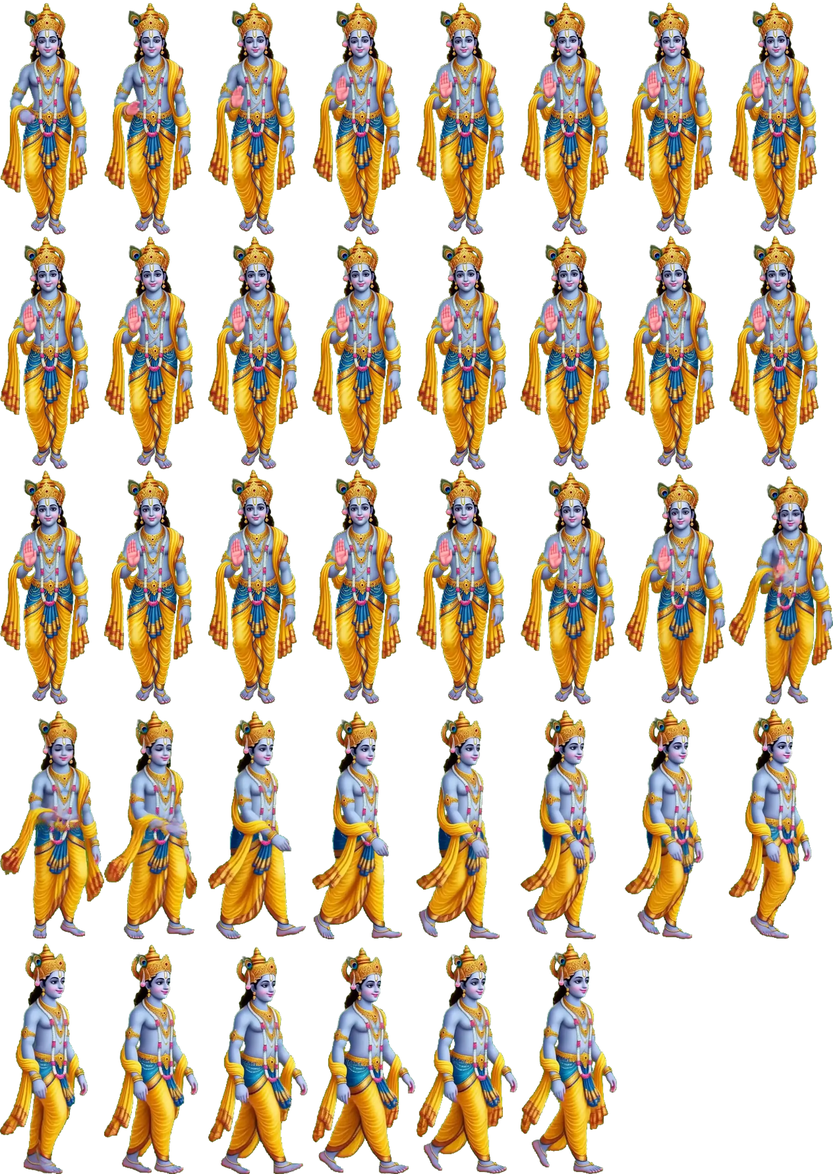
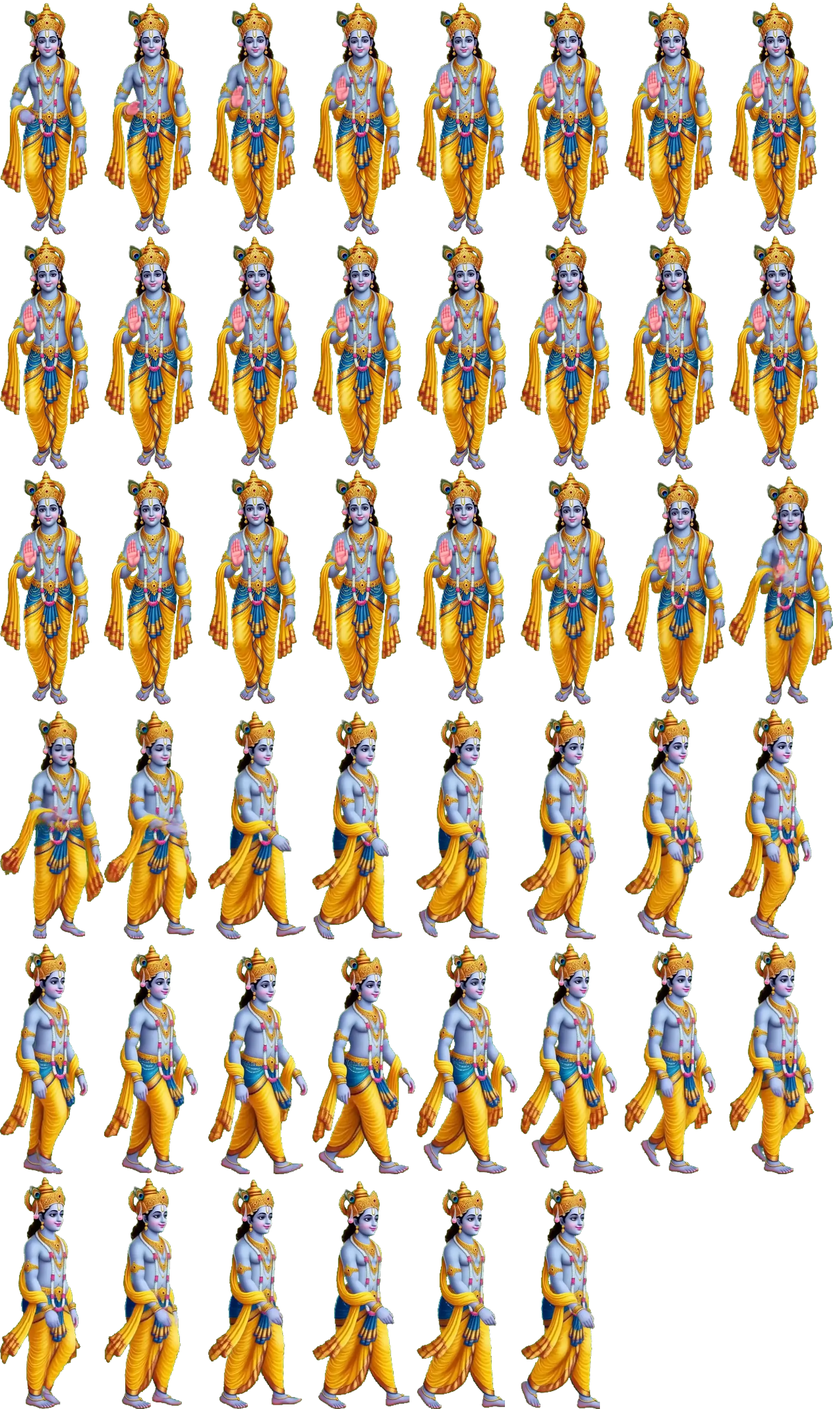
Address the Codex review of the walk animation
- Farewell segment now runs to the clip's end (46 frames, 3833 ms) so
  the figure leaves the canvas fully instead of popping away with part
  of the last frame visible; WITHDRAWAL_MS bound raised to 4000.
- A sheet that never loads or errors gives up after 8 s and ends its
  segment, so no frame loop can run unbounded.
- The backing store is only resized from a laid-out canvas; a hidden
  canvas keeps its store instead of compounding the pixel ratio.
- Drawing uses independent x and y backing scales for fractional
  pixel ratios.
- The halo and caption fade in over the walk-in and out over the
  farewell instead of sitting at rest before he enters.
- New test/renderer-sprite.test.js drives the shipped renderer with
  the real manifest and a recording player through every phase:
  walk in, reveal, gesture on expand, farewell, absent; continuing
  verse; reduced motion; hidden window during withdrawal.
- Docs: bounds and segment lengths stated where each lives; UI1/UI5
  rows name the behavioural test; the preview GIF is no longer
  committed (3 MB of history), the PNG evidence stays.

Claude-Session: https://claude.ai/code/session_01CC1aA9unkPT1AyCNRU7Naq

diff --git a/assets/anim/manifest.js b/assets/anim/manifest.js
@@ -1,2 +1,2 @@
 // Generated by build-sheets.py from the darshan clip; do not edit by hand.
-window.KRISHNA_ANIM = {"sourceFps":24,"sourceWidth":1344,"sourceHeight":768,"scale":0.8,"segments":{"walkin":{"file":"walkin.webp","fps":12,"loop":false,"cell":[232,542],"frames":[{"sx":0,"sy":11,"w":176,"h":531,"ox":816,"oy":34},{"sx":232,"sy":10,"w":184,"h":532,"ox":792,"oy":32},{"sx":464,"sy":11,"w":195,"h":531,"ox":763,"oy":34},{"sx":696,"sy":11,"w":203,"h":531,"ox":739,"oy":35},{"sx":928,"sy":14,"w":211,"h":528,"ox":715,"oy":37},{"sx":1160,"sy":16,"w":220,"h":526,"ox":690,"oy":40},{"sx":1392,"sy":16,"w":225,"h":526,"ox":674,"oy":43},{"sx":1624,"sy":11,"w":222,"h":531,"ox":662,"oy":42},{"sx":0,"sy":548,"w":217,"h":536,"ox":656,"oy":38},{"sx":232,"sy":547,"w":206,"h":537,"ox":650,"oy":37},{"sx":464,"sy":547,"w":195,"h":537,"ox":643,"oy":37},{"sx":696,"sy":544,"w":187,"h":540,"ox":630,"oy":35},{"sx":928,"sy":545,"w":176,"h":539,"ox":614,"oy":37},{"sx":1160,"sy":548,"w":208,"h":536,"ox":568,"oy":40},{"sx":1392,"sy":550,"w":232,"h":534,"ox":531,"oy":42},{"sx":1624,"sy":555,"w":228,"h":529,"ox":522,"oy":45},{"sx":0,"sy":1094,"w":219,"h":532,"ox":520,"oy":42},{"sx":232,"sy":1093,"w":196,"h":533,"ox":520,"oy":39},{"sx":464,"sy":1090,"w":184,"h":536,"ox":520,"oy":38},{"sx":696,"sy":1090,"w":176,"h":536,"ox":518,"oy":38},{"sx":928,"sy":1090,"w":179,"h":536,"ox":504,"oy":38},{"sx":1160,"sy":1092,"w":177,"h":534,"ox":491,"oy":40},{"sx":1392,"sy":1089,"w":185,"h":537,"ox":480,"oy":40},{"sx":1624,"sy":1085,"w":193,"h":541,"ox":475,"oy":42},{"sx":0,"sy":1626,"w":201,"h":542,"ox":474,"oy":43}],"source":[1.2,3.35]},"idle":{"file":"idle.webp","fps":8,"loop":true,"cell":[220,550],"frames":[{"sx":0,"sy":8,"w":209,"h":542,"ox":475,"oy":45},{"sx":220,"sy":8,"w":220,"h":542,"ox":467,"oy":45},{"sx":440,"sy":6,"w":217,"h":544,"ox":466,"oy":43},{"sx":660,"sy":6,"w":206,"h":544,"ox":469,"oy":43},{"sx":880,"sy":6,"w":196,"h":544,"ox":474,"oy":43},{"sx":1100,"sy":6,"w":192,"h":544,"ox":477,"oy":43},{"sx":1320,"sy":6,"w":192,"h":544,"ox":477,"oy":43},{"sx":1540,"sy":6,"w":195,"h":544,"ox":475,"oy":43},{"sx":0,"sy":556,"w":195,"h":544,"ox":475,"oy":43},{"sx":220,"sy":556,"w":195,"h":544,"ox":475,"oy":43},{"sx":440,"sy":554,"w":195,"h":546,"ox":475,"oy":42},{"sx":660,"sy":553,"w":195,"h":547,"ox":475,"oy":42},{"sx":880,"sy":553,"w":195,"h":547,"ox":475,"oy":42},{"sx":1100,"sy":553,"w":195,"h":547,"ox":475,"oy":42},{"sx":1320,"sy":553,"w":195,"h":547,"ox":475,"oy":42},{"sx":1540,"sy":553,"w":195,"h":547,"ox":475,"oy":42},{"sx":0,"sy":1103,"w":195,"h":547,"ox":475,"oy":42},{"sx":220,"sy":1103,"w":195,"h":547,"ox":475,"oy":42},{"sx":440,"sy":1103,"w":195,"h":547,"ox":475,"oy":42},{"sx":660,"sy":1102,"w":195,"h":548,"ox":475,"oy":42},{"sx":880,"sy":1102,"w":195,"h":548,"ox":475,"oy":42},{"sx":1100,"sy":1100,"w":195,"h":550,"ox":475,"oy":40}],"source":[3.35,6.2],"pingpong":true},"teach":{"file":"teach.webp","fps":10,"loop":false,"cell":[217,560],"frames":[{"sx":0,"sy":10,"w":195,"h":550,"ox":475,"oy":40},{"sx":217,"sy":10,"w":195,"h":550,"ox":475,"oy":40},{"sx":434,"sy":8,"w":200,"h":552,"ox":470,"oy":40},{"sx":651,"sy":8,"w":204,"h":552,"ox":466,"oy":40},{"sx":868,"sy":8,"w":208,"h":552,"ox":462,"oy":40},{"sx":1085,"sy":8,"w":209,"h":552,"ox":462,"oy":40},{"sx":1302,"sy":8,"w":211,"h":552,"ox":461,"oy":40},{"sx":1519,"sy":8,"w":209,"h":552,"ox":462,"oy":40},{"sx":0,"sy":568,"w":211,"h":552,"ox":461,"oy":40},{"sx":217,"sy":568,"w":211,"h":552,"ox":461,"oy":40},{"sx":434,"sy":568,"w":212,"h":552,"ox":459,"oy":40},{"sx":651,"sy":568,"w":212,"h":552,"ox":459,"oy":40},{"sx":868,"sy":568,"w":214,"h":552,"ox":458,"oy":40},{"sx":1085,"sy":567,"w":216,"h":553,"ox":456,"oy":38},{"sx":1302,"sy":565,"w":216,"h":555,"ox":456,"oy":38},{"sx":1519,"sy":565,"w":216,"h":555,"ox":456,"oy":38},{"sx":0,"sy":1125,"w":216,"h":555,"ox":456,"oy":38},{"sx":217,"sy":1125,"w":214,"h":555,"ox":458,"oy":38},{"sx":434,"sy":1125,"w":214,"h":555,"ox":458,"oy":38},{"sx":651,"sy":1125,"w":214,"h":555,"ox":458,"oy":38},{"sx":868,"sy":1125,"w":212,"h":555,"ox":459,"oy":38},{"sx":1085,"sy":1125,"w":212,"h":555,"ox":459,"oy":38},{"sx":1302,"sy":1125,"w":212,"h":555,"ox":459,"oy":38},{"sx":1519,"sy":1125,"w":212,"h":555,"ox":459,"oy":38},{"sx":0,"sy":1685,"w":214,"h":555,"ox":458,"oy":38},{"sx":217,"sy":1684,"w":214,"h":556,"ox":458,"oy":38},{"sx":434,"sy":1684,"w":216,"h":556,"ox":456,"oy":38},{"sx":651,"sy":1684,"w":216,"h":556,"ox":456,"oy":38},{"sx":868,"sy":1684,"w":216,"h":556,"ox":456,"oy":38},{"sx":1085,"sy":1684,"w":217,"h":556,"ox":456,"oy":38},{"sx":1302,"sy":1684,"w":217,"h":556,"ox":456,"oy":38},{"sx":1519,"sy":1684,"w":217,"h":556,"ox":456,"oy":38},{"sx":0,"sy":2242,"w":216,"h":558,"ox":458,"oy":37},{"sx":217,"sy":2242,"w":214,"h":558,"ox":459,"oy":37},{"sx":434,"sy":2242,"w":216,"h":558,"ox":458,"oy":37},{"sx":651,"sy":2240,"w":217,"h":560,"ox":456,"oy":37},{"sx":868,"sy":2240,"w":217,"h":560,"ox":454,"oy":37}],"source":[6.2,9.9]},"farewell":{"file":"farewell.webp","fps":12,"loop":false,"cell":[252,568],"frames":[{"sx":0,"sy":7,"w":211,"h":561,"ox":462,"oy":37},{"sx":252,"sy":7,"w":211,"h":561,"ox":462,"oy":37},{"sx":504,"sy":5,"w":212,"h":563,"ox":462,"oy":35},{"sx":756,"sy":5,"w":214,"h":563,"ox":461,"oy":35},{"sx":1008,"sy":5,"w":214,"h":563,"ox":461,"oy":35},{"sx":1260,"sy":5,"w":214,"h":563,"ox":461,"oy":35},{"sx":1512,"sy":5,"w":214,"h":563,"ox":461,"oy":35},{"sx":1764,"sy":5,"w":214,"h":563,"ox":461,"oy":35},{"sx":0,"sy":572,"w":216,"h":564,"ox":459,"oy":35},{"sx":252,"sy":572,"w":217,"h":564,"ox":458,"oy":35},{"sx":504,"sy":572,"w":217,"h":564,"ox":458,"oy":35},{"sx":756,"sy":572,"w":217,"h":564,"ox":458,"oy":35},{"sx":1008,"sy":570,"w":219,"h":566,"ox":456,"oy":34},{"sx":1260,"sy":570,"w":217,"h":566,"ox":458,"oy":34},{"sx":1512,"sy":570,"w":217,"h":566,"ox":458,"oy":34},{"sx":1764,"sy":570,"w":217,"h":566,"ox":458,"oy":34},{"sx":0,"sy":1138,"w":216,"h":566,"ox":459,"oy":34},{"sx":252,"sy":1138,"w":214,"h":566,"ox":461,"oy":34},{"sx":504,"sy":1136,"w":214,"h":568,"ox":461,"oy":34},{"sx":756,"sy":1136,"w":214,"h":568,"ox":461,"oy":34},{"sx":1008,"sy":1136,"w":214,"h":568,"ox":461,"oy":34},{"sx":1260,"sy":1141,"w":228,"h":563,"ox":453,"oy":35},{"sx":1512,"sy":1146,"w":244,"h":558,"ox":446,"oy":37},{"sx":1764,"sy":1151,"w":252,"h":553,"ox":448,"oy":40},{"sx":0,"sy":1720,"w":252,"h":552,"ox":464,"oy":45},{"sx":252,"sy":1719,"w":225,"h":553,"ox":494,"oy":43},{"sx":504,"sy":1720,"w":236,"h":552,"ox":522,"oy":42},{"sx":756,"sy":1720,"w":217,"h":552,"ox":544,"oy":40},{"sx":1008,"sy":1719,"w":201,"h":553,"ox":560,"oy":38},{"sx":1260,"sy":1717,"w":182,"h":555,"ox":579,"oy":37},{"sx":1512,"sy":1714,"w":190,"h":558,"ox":598,"oy":34},{"sx":1764,"sy":1714,"w":201,"h":558,"ox":616,"oy":34},{"sx":0,"sy":2282,"w":212,"h":558,"ox":632,"oy":34},{"sx":252,"sy":2285,"w":227,"h":555,"ox":646,"oy":37},{"sx":504,"sy":2290,"w":241,"h":550,"ox":661,"oy":38},{"sx":756,"sy":2291,"w":249,"h":549,"ox":686,"oy":42},{"sx":1008,"sy":2284,"w":244,"h":556,"ox":702,"oy":38},{"sx":1260,"sy":2281,"w":233,"h":559,"ox":722,"oy":36}],"source":[11.2,14.4]}}};
+window.KRISHNA_ANIM = {"sourceFps":24,"sourceWidth":1344,"sourceHeight":768,"scale":0.8,"segments":{"walkin":{"file":"walkin.webp","fps":12,"loop":false,"cell":[232,542],"frames":[{"sx":0,"sy":11,"w":176,"h":531,"ox":816,"oy":34},{"sx":232,"sy":10,"w":184,"h":532,"ox":792,"oy":32},{"sx":464,"sy":11,"w":195,"h":531,"ox":763,"oy":34},{"sx":696,"sy":11,"w":203,"h":531,"ox":739,"oy":35},{"sx":928,"sy":14,"w":211,"h":528,"ox":715,"oy":37},{"sx":1160,"sy":16,"w":220,"h":526,"ox":690,"oy":40},{"sx":1392,"sy":16,"w":225,"h":526,"ox":674,"oy":43},{"sx":1624,"sy":11,"w":222,"h":531,"ox":662,"oy":42},{"sx":0,"sy":548,"w":217,"h":536,"ox":656,"oy":38},{"sx":232,"sy":547,"w":206,"h":537,"ox":650,"oy":37},{"sx":464,"sy":547,"w":195,"h":537,"ox":643,"oy":37},{"sx":696,"sy":544,"w":187,"h":540,"ox":630,"oy":35},{"sx":928,"sy":545,"w":176,"h":539,"ox":614,"oy":37},{"sx":1160,"sy":548,"w":208,"h":536,"ox":568,"oy":40},{"sx":1392,"sy":550,"w":232,"h":534,"ox":531,"oy":42},{"sx":1624,"sy":555,"w":228,"h":529,"ox":522,"oy":45},{"sx":0,"sy":1094,"w":219,"h":532,"ox":520,"oy":42},{"sx":232,"sy":1093,"w":196,"h":533,"ox":520,"oy":39},{"sx":464,"sy":1090,"w":184,"h":536,"ox":520,"oy":38},{"sx":696,"sy":1090,"w":176,"h":536,"ox":518,"oy":38},{"sx":928,"sy":1090,"w":179,"h":536,"ox":504,"oy":38},{"sx":1160,"sy":1092,"w":177,"h":534,"ox":491,"oy":40},{"sx":1392,"sy":1089,"w":185,"h":537,"ox":480,"oy":40},{"sx":1624,"sy":1085,"w":193,"h":541,"ox":475,"oy":42},{"sx":0,"sy":1626,"w":201,"h":542,"ox":474,"oy":43}],"source":[1.2,3.35]},"idle":{"file":"idle.webp","fps":8,"loop":true,"cell":[220,550],"frames":[{"sx":0,"sy":8,"w":209,"h":542,"ox":475,"oy":45},{"sx":220,"sy":8,"w":220,"h":542,"ox":467,"oy":45},{"sx":440,"sy":6,"w":217,"h":544,"ox":466,"oy":43},{"sx":660,"sy":6,"w":206,"h":544,"ox":469,"oy":43},{"sx":880,"sy":6,"w":196,"h":544,"ox":474,"oy":43},{"sx":1100,"sy":6,"w":192,"h":544,"ox":477,"oy":43},{"sx":1320,"sy":6,"w":192,"h":544,"ox":477,"oy":43},{"sx":1540,"sy":6,"w":195,"h":544,"ox":475,"oy":43},{"sx":0,"sy":556,"w":195,"h":544,"ox":475,"oy":43},{"sx":220,"sy":556,"w":195,"h":544,"ox":475,"oy":43},{"sx":440,"sy":554,"w":195,"h":546,"ox":475,"oy":42},{"sx":660,"sy":553,"w":195,"h":547,"ox":475,"oy":42},{"sx":880,"sy":553,"w":195,"h":547,"ox":475,"oy":42},{"sx":1100,"sy":553,"w":195,"h":547,"ox":475,"oy":42},{"sx":1320,"sy":553,"w":195,"h":547,"ox":475,"oy":42},{"sx":1540,"sy":553,"w":195,"h":547,"ox":475,"oy":42},{"sx":0,"sy":1103,"w":195,"h":547,"ox":475,"oy":42},{"sx":220,"sy":1103,"w":195,"h":547,"ox":475,"oy":42},{"sx":440,"sy":1103,"w":195,"h":547,"ox":475,"oy":42},{"sx":660,"sy":1102,"w":195,"h":548,"ox":475,"oy":42},{"sx":880,"sy":1102,"w":195,"h":548,"ox":475,"oy":42},{"sx":1100,"sy":1100,"w":195,"h":550,"ox":475,"oy":40}],"source":[3.35,6.2],"pingpong":true},"teach":{"file":"teach.webp","fps":10,"loop":false,"cell":[217,560],"frames":[{"sx":0,"sy":10,"w":195,"h":550,"ox":475,"oy":40},{"sx":217,"sy":10,"w":195,"h":550,"ox":475,"oy":40},{"sx":434,"sy":8,"w":200,"h":552,"ox":470,"oy":40},{"sx":651,"sy":8,"w":204,"h":552,"ox":466,"oy":40},{"sx":868,"sy":8,"w":208,"h":552,"ox":462,"oy":40},{"sx":1085,"sy":8,"w":209,"h":552,"ox":462,"oy":40},{"sx":1302,"sy":8,"w":211,"h":552,"ox":461,"oy":40},{"sx":1519,"sy":8,"w":209,"h":552,"ox":462,"oy":40},{"sx":0,"sy":568,"w":211,"h":552,"ox":461,"oy":40},{"sx":217,"sy":568,"w":211,"h":552,"ox":461,"oy":40},{"sx":434,"sy":568,"w":212,"h":552,"ox":459,"oy":40},{"sx":651,"sy":568,"w":212,"h":552,"ox":459,"oy":40},{"sx":868,"sy":568,"w":214,"h":552,"ox":458,"oy":40},{"sx":1085,"sy":567,"w":216,"h":553,"ox":456,"oy":38},{"sx":1302,"sy":565,"w":216,"h":555,"ox":456,"oy":38},{"sx":1519,"sy":565,"w":216,"h":555,"ox":456,"oy":38},{"sx":0,"sy":1125,"w":216,"h":555,"ox":456,"oy":38},{"sx":217,"sy":1125,"w":214,"h":555,"ox":458,"oy":38},{"sx":434,"sy":1125,"w":214,"h":555,"ox":458,"oy":38},{"sx":651,"sy":1125,"w":214,"h":555,"ox":458,"oy":38},{"sx":868,"sy":1125,"w":212,"h":555,"ox":459,"oy":38},{"sx":1085,"sy":1125,"w":212,"h":555,"ox":459,"oy":38},{"sx":1302,"sy":1125,"w":212,"h":555,"ox":459,"oy":38},{"sx":1519,"sy":1125,"w":212,"h":555,"ox":459,"oy":38},{"sx":0,"sy":1685,"w":214,"h":555,"ox":458,"oy":38},{"sx":217,"sy":1684,"w":214,"h":556,"ox":458,"oy":38},{"sx":434,"sy":1684,"w":216,"h":556,"ox":456,"oy":38},{"sx":651,"sy":1684,"w":216,"h":556,"ox":456,"oy":38},{"sx":868,"sy":1684,"w":216,"h":556,"ox":456,"oy":38},{"sx":1085,"sy":1684,"w":217,"h":556,"ox":456,"oy":38},{"sx":1302,"sy":1684,"w":217,"h":556,"ox":456,"oy":38},{"sx":1519,"sy":1684,"w":217,"h":556,"ox":456,"oy":38},{"sx":0,"sy":2242,"w":216,"h":558,"ox":458,"oy":37},{"sx":217,"sy":2242,"w":214,"h":558,"ox":459,"oy":37},{"sx":434,"sy":2242,"w":216,"h":558,"ox":458,"oy":37},{"sx":651,"sy":2240,"w":217,"h":560,"ox":456,"oy":37},{"sx":868,"sy":2240,"w":217,"h":560,"ox":454,"oy":37}],"source":[6.2,9.9]},"farewell":{"file":"farewell.webp","fps":12,"loop":false,"cell":[252,568],"frames":[{"sx":0,"sy":7,"w":211,"h":561,"ox":462,"oy":37},{"sx":252,"sy":7,"w":211,"h":561,"ox":462,"oy":37},{"sx":504,"sy":5,"w":212,"h":563,"ox":462,"oy":35},{"sx":756,"sy":5,"w":214,"h":563,"ox":461,"oy":35},{"sx":1008,"sy":5,"w":214,"h":563,"ox":461,"oy":35},{"sx":1260,"sy":5,"w":214,"h":563,"ox":461,"oy":35},{"sx":1512,"sy":5,"w":214,"h":563,"ox":461,"oy":35},{"sx":1764,"sy":5,"w":214,"h":563,"ox":461,"oy":35},{"sx":0,"sy":572,"w":216,"h":564,"ox":459,"oy":35},{"sx":252,"sy":572,"w":217,"h":564,"ox":458,"oy":35},{"sx":504,"sy":572,"w":217,"h":564,"ox":458,"oy":35},{"sx":756,"sy":572,"w":217,"h":564,"ox":458,"oy":35},{"sx":1008,"sy":570,"w":219,"h":566,"ox":456,"oy":34},{"sx":1260,"sy":570,"w":217,"h":566,"ox":458,"oy":34},{"sx":1512,"sy":570,"w":217,"h":566,"ox":458,"oy":34},{"sx":1764,"sy":570,"w":217,"h":566,"ox":458,"oy":34},{"sx":0,"sy":1138,"w":216,"h":566,"ox":459,"oy":34},{"sx":252,"sy":1138,"w":214,"h":566,"ox":461,"oy":34},{"sx":504,"sy":1136,"w":214,"h":568,"ox":461,"oy":34},{"sx":756,"sy":1136,"w":214,"h":568,"ox":461,"oy":34},{"sx":1008,"sy":1136,"w":214,"h":568,"ox":461,"oy":34},{"sx":1260,"sy":1141,"w":228,"h":563,"ox":453,"oy":35},{"sx":1512,"sy":1146,"w":244,"h":558,"ox":446,"oy":37},{"sx":1764,"sy":1151,"w":252,"h":553,"ox":448,"oy":40},{"sx":0,"sy":1720,"w":252,"h":552,"ox":464,"oy":45},{"sx":252,"sy":1719,"w":225,"h":553,"ox":494,"oy":43},{"sx":504,"sy":1720,"w":236,"h":552,"ox":522,"oy":42},{"sx":756,"sy":1720,"w":217,"h":552,"ox":544,"oy":40},{"sx":1008,"sy":1719,"w":201,"h":553,"ox":560,"oy":38},{"sx":1260,"sy":1717,"w":182,"h":555,"ox":579,"oy":37},{"sx":1512,"sy":1714,"w":190,"h":558,"ox":598,"oy":34},{"sx":1764,"sy":1714,"w":201,"h":558,"ox":616,"oy":34},{"sx":0,"sy":2282,"w":212,"h":558,"ox":632,"oy":34},{"sx":252,"sy":2285,"w":227,"h":555,"ox":646,"oy":37},{"sx":504,"sy":2290,"w":241,"h":550,"ox":661,"oy":38},{"sx":756,"sy":2291,"w":249,"h":549,"ox":686,"oy":42},{"sx":1008,"sy":2284,"w":244,"h":556,"ox":702,"oy":38},{"sx":1260,"sy":2281,"w":233,"h":559,"ox":722,"oy":36},{"sx":1512,"sy":2279,"w":220,"h":561,"ox":742,"oy":34},{"sx":1764,"sy":2279,"w":206,"h":561,"ox":765,"oy":32},{"sx":0,"sy":2846,"w":195,"h":562,"ox":789,"oy":31},{"sx":252,"sy":2849,"w":188,"h":559,"ox":808,"oy":33},{"sx":504,"sy":2852,"w":227,"h":556,"ox":826,"oy":35},{"sx":756,"sy":2856,"w":235,"h":552,"ox":840,"oy":38},{"sx":1008,"sy":2856,"w":214,"h":552,"ox":861,"oy":37},{"sx":1260,"sy":2854,"w":192,"h":554,"ox":883,"oy":33}],"source":[11.2,15.08]}}};

diff --git a/test/renderer-sprite.test.js b/test/renderer-sprite.test.js
@@ -1,0 +1,128 @@
+const test = require("node:test");
+const assert = require("node:assert/strict");
+const fs = require("node:fs");
+const path = require("node:path");
+const vm = require("node:vm");
+const { reflections } = require("../src/content");
+const Sprite = require("../src/sprite-player");
+
+const manifest = JSON.parse(fs.readFileSync(path.join(__dirname, "..", "assets", "anim", "manifest.json"), "utf8"));
+
+// Drives the shipped renderer with the real manifest and the real sprite planning
+// functions, but a recording player, so every phase transition is observable without
+// a browser, Electron, or a canvas.
+function harness({ reduced = false, hidden = false } = {}) {
+  const elements = new Map();
+  function element(name) {
+    if (!elements.has(name)) {
+      const classes = new Set();
+      elements.set(name, {
+        dataset: {}, attributes: {}, listeners: {}, scrollHeight: 348, style: {},
+        classList: {
+          add: (...n) => n.forEach((v) => classes.add(v)), remove: (...n) => n.forEach((v) => classes.delete(v)),
+          toggle(v, on) { if (on) classes.add(v); else classes.delete(v); }, contains: (v) => classes.has(v)
+        },
+        addEventListener(type, fn) { this.listeners[type] = fn; },
+        setAttribute(key, value) { this.attributes[key] = value; },
+        closest: () => null
+      });
+    }
+    return elements.get(name);
+  }
+  const calls = [];
+  let currentSegment = null;
+  let endCallback = null;
+  const player = {
+    preload: () => calls.push("preload"),
+    play: (name, onEnd) => { calls.push(`play:${name}`); currentSegment = name; endCallback = onEnd; return true; },
+    still: (name = "idle", index = Sprite.STILL_FRAME) => { calls.push(`still:${name}:${index}`); currentSegment = null; },
+    clear: () => { calls.push("clear"); currentSegment = null; },
+    stop: () => { currentSegment = null; },
+    current: () => currentSegment,
+    isPlaying: () => currentSegment !== null
+  };
+  const timers = new Map(); let timerId = 0;
+  const bridge = { onShow: null, onCollapse: null, calls: [] };
+  const context = {
+    document: {
+      querySelector: element, body: element("body"), documentElement: { style: { setProperty() {} } },
+      addEventListener() {}, hidden
+    },
+    window: {
+      matchMedia: () => ({ matches: reduced, addEventListener() {} }),
+      krishna: {
+        resize() {}, ready() {}, expand() { bridge.calls.push("expand"); }, next() {}, dismiss() { bridge.calls.push("dismiss"); }, engage() {}, openSource() {},
+        onShow: (fn) => { bridge.onShow = fn; }, onCollapse: (fn) => { bridge.onCollapse = fn; }, onListening() {}
+      },
+      KRISHNA_ANIM: manifest,
+      KrishnaSprite: { ...Sprite, createSpritePlayer: () => player },
+      requestAnimationFrame() {}, cancelAnimationFrame() {}, devicePixelRatio: 2
+    },
+    performance: { now: () => 0 },
+    Image: function () { return { addEventListener() {} }; },
+    setTimeout: (fn, ms) => { timerId++; timers.set(timerId, { fn, ms }); return timerId; },
+    clearTimeout: (id) => timers.delete(id),
+    console
+  };
+  vm.runInNewContext(fs.readFileSync(path.join(__dirname, "..", "src", "renderer.js"), "utf8"), context);
+  return {
+    calls, player, bridge, timers, body: element("body"),
+    endSegment: () => { const cb = endCallback; const name = currentSegment; currentSegment = null; endCallback = null; if (cb) cb(name); },
+    show: (continuing = false) => bridge.onShow({ reflection: reflections[46], durationSeconds: 0, continuing, arrivalMs: 2200, withdrawalMs: 4000, breathMs: 4000, settleMs: 400, settlePx: 6 }),
+    collapse: () => bridge.onCollapse(),
+    click: (name) => element(name).listeners.click()
+  };
+}
+
+test("a darshan walks in, stands, teaches on expand, and leaves to absence", () => {
+  const h = harness();
+  assert.equal(h.calls[0], "preload");
+  assert.ok(h.body.classList.contains("sprite"), "sprite mode on");
+  h.show();
+  assert.equal(h.body.dataset.phase, "arriving");
+  assert.equal(h.player.current(), "walkin");
+  h.endSegment(); // walk-in finished: message reveals, idle loops
+  assert.equal(h.body.dataset.phase, "present");
+  assert.equal(h.player.current(), "idle");
+  h.click("#expand");
+  assert.equal(h.player.current(), Sprite.EXPAND_GESTURE);
+  h.endSegment(); // gesture finished: back to idle
+  assert.equal(h.player.current(), "idle");
+  h.collapse();
+  assert.equal(h.body.dataset.phase, "withdrawing");
+  assert.equal(h.player.current(), "farewell");
+  h.endSegment(); // farewell finished: absent, canvas cleared
+  assert.equal(h.body.dataset.phase, "absent");
+  assert.equal(h.calls.at(-1), "clear");
+  assert.equal(h.player.current(), null);
+});
+
+test("a continuing verse keeps the idle loop; nothing re-walks", () => {
+  const h = harness();
+  h.show(); h.endSegment();
+  h.show(true);
+  assert.equal(h.player.current(), "idle");
+  assert.ok(!h.calls.slice(1).includes("play:walkin") || h.calls.filter((c) => c === "play:walkin").length === 1);
+});
+
+test("reduced motion shows one eyes-open still and never plays a segment", () => {
+  const h = harness({ reduced: true });
+  h.show();
+  assert.ok(h.calls.includes(`still:idle:${Sprite.STILL_FRAME}`));
+  assert.ok(!h.calls.some((c) => c.startsWith("play:")));
+  h.click("#expand");
+  assert.ok(!h.calls.some((c) => c.startsWith("play:")), "no gesture under reduced motion");
+});
+
+test("a hidden window during withdrawal clears instead of freezing a frame", () => {
+  const h = harness({ hidden: true });
+  h.show();
+  assert.ok(h.calls.includes(`still:idle:${Sprite.STILL_FRAME}`), "hidden arrival draws the still");
+  h.collapse();
+  assert.equal(h.calls.at(-1), "clear");
+  // the slack timer still moves the renderer to absent when the loop cannot finish
+  const slack = [...h.timers.values()].find((t) => t.ms > Sprite.durationMs(manifest.segments.farewell));
+  assert.ok(slack, "withdraw slack timer armed");
+  slack.fn();
+  assert.equal(h.body.dataset.phase, "absent");
+});

diff --git a/src/sprite-player.js b/src/sprite-player.js
@@ -20,6 +20,8 @@
   // Resting frame for reduced motion / hidden tab: an eyes-open frame of the idle loop
   // (frame 0 falls inside a blink in the source clip).
   const STILL_FRAME = 6;
+  // Longest a segment waits for its sheet to decode before giving up on it.
+  const LOAD_TIMEOUT_MS = 8_000;
 
   // Sequence of segments to play after the current one ends.
   function nextAfter(segment) {
@@ -113,23 +115,30 @@
     // Keep the backing store matched to the element's current CSS size (it changes with
     // the compact media query) so the figure is never squashed or clipped.
     function fitBacking() {
-      const cw = canvas.clientWidth || canvas.width, ch = canvas.clientHeight || canvas.height;
       const ratio = env.pixelRatio ? env.pixelRatio() : 1;
-      const bw = Math.round(cw * ratio), bh = Math.round(ch * ratio);
-      if (canvas.width !== bw || canvas.height !== bh) { canvas.width = bw; canvas.height = bh; }
-      return { cw, ch, ratio };
+      const laidOut = canvas.clientWidth > 0 && canvas.clientHeight > 0;
+      if (laidOut) {
+        const bw = Math.round(canvas.clientWidth * ratio), bh = Math.round(canvas.clientHeight * ratio);
+        if (canvas.width !== bw || canvas.height !== bh) { canvas.width = bw; canvas.height = bh; }
+      }
+      // Without layout (display:none) the backing store is left as it is; never derive
+      // a new size from it, which would compound the ratio on every draw.
+      const cw = laidOut ? canvas.clientWidth : canvas.width / ratio;
+      const ch = laidOut ? canvas.clientHeight : canvas.height / ratio;
+      return { cw, ch, sx: canvas.width / cw, sy: canvas.height / ch };
     }
 
     function draw(name, index) {
       const seg = manifest.segments[name];
       const f = seg.frames[index];
       const ctx = canvas.getContext("2d");
-      const { cw, ch, ratio } = fitBacking();
+      const { cw, ch, sx, sy } = fitBacking();
       const p = placement(manifest, name, index, cw, ch);
       ctx.clearRect(0, 0, canvas.width, canvas.height);
       const img = image(name);
       if (!loaded(img)) return;
-      ctx.drawImage(img, f.sx, f.sy, f.w, f.h, p.x * ratio, p.y * ratio, p.w * ratio, p.h * ratio);
+      // Independent x/y scales: rounding the backing store can make them differ slightly.
+      ctx.drawImage(img, f.sx, f.sy, f.w, f.h, p.x * sx, p.y * sy, p.w * sx, p.h * sy);
     }
 
     function loaded(img) {
@@ -147,8 +156,16 @@
         if (finished.onEnd) finished.onEnd(finished.name);
         return;
       }
-      // A sheet still decoding must not eat frames: hold the clock until it is ready.
+      // A sheet still decoding must not eat frames: hold the clock until it is ready,
+      // but never for longer than LOAD_TIMEOUT_MS; after that the segment ends as failed.
       if (!loaded(img)) {
+        if (active.holdSince === undefined) active.holdSince = now();
+        if (now() - active.holdSince > LOAD_TIMEOUT_MS) {
+          img.__failed = true;
+          const finished = active; active = null;
+          if (finished.onEnd) finished.onEnd(finished.name);
+          return;
+        }
         active.startedAt = now();
         frameHandle = raf(tick);
         return;

diff --git a/src/styles.css b/src/styles.css
@@ -64,6 +64,13 @@ body.sprite .figure img { display: none; }
 body.sprite .figure canvas.sprite { display: block; }
 body.sprite[data-phase="arriving"] .presence, body.sprite[data-phase="withdrawing"] .presence, body.sprite:not(.continuing)[data-phase="present"] .presence { animation: none; opacity: 1; transform: none; }
 body.sprite[data-phase="absent"] .presence { opacity: 0; }
+/* The halo and caption belong to his presence, not to the empty spot: they fade in
+   over the walk-in and out over the farewell while the frames carry the figure. */
+body.sprite[data-phase="arriving"] .halo, body.sprite[data-phase="arriving"] .presence-caption { animation: presence-fade-in var(--arrival) ease both; }
+body.sprite[data-phase="withdrawing"] .halo, body.sprite[data-phase="withdrawing"] .presence-caption { animation: presence-fade-out var(--withdraw) ease both; }
+body.sprite.continuing[data-phase="arriving"] .halo, body.sprite.continuing[data-phase="arriving"] .presence-caption { animation: none; }
+@keyframes presence-fade-in { from { opacity: 0; } to { opacity: 1; } }
+@keyframes presence-fade-out { from { opacity: 1; } to { opacity: 0; } }
 .halo { position: absolute; inset: 10px 13px 80px; border-radius: 50%; background: radial-gradient(ellipse, #f1c46b20, #e7be660c 50%, transparent 72%); }
 .halo::before { content: ""; position: absolute; inset: 13px 19px 48px; border: 1px solid #ebd09a24; border-radius: 50%; }
 .presence-caption { position: absolute; bottom: 12px; left: 0; right: 0; text-align: center; text-shadow: 0 2px 6px #000; }

diff --git a/src/darshan.js b/src/darshan.js
@@ -2,11 +2,11 @@
 // This module is the single source for the figure timings: main.js sends them in
 // the companion:show payload, the renderer turns them into CSS custom properties,
 // and the localhost preview bridge reads them too. ARRIVAL_MS and WITHDRAWAL_MS are
-// upper bounds for the walk-in (25 frames at 12 fps = 2083 ms) and farewell (38 at
-// 12 fps = 3167 ms) sprite segments in assets/anim/manifest.js, rounded up to leave
+// upper bounds for the walk-in (25 frames at 12 fps = 2083 ms) and farewell (46 at
+// 12 fps = 3833 ms) sprite segments in assets/anim/manifest.js, rounded up to leave
 // room for sheet decoding; the CSS slide uses the same values as its fallback.
 const ARRIVAL_MS = 2_200;
-const WITHDRAWAL_MS = 3_200;
+const WITHDRAWAL_MS = 4_000;
 const UNTOUCHED_MS = 180_000;
 // Micro-motion (M1.6/UI5): breathing period, and the one-shot arrival settle bob.
 const BREATH_MS = 4_000;

diff --git a/docs/SUCCESS-CRITERIA.md b/docs/SUCCESS-CRITERIA.md
@@ -34,7 +34,7 @@ Environment for every manual M1 check unless stated: MacBook Air 13-inch, built-
 | M1.3 | Quiet while typing: no darshan starts if any key was pressed in the last 20 seconds. A blocked darshan is deferred, retried every 5 seconds, and dropped after 10 minutes in favour of the next slot. Never dropped silently: the deferral is visible in `krshna context`. | unit tests with fake input timestamps | proposed |
 | M1.4 | Fullscreen guard: no darshan over a fullscreen application. Deferred as in M1.3. | manual on macOS | proposed |
 | M1.5 | Two-stage bubble: stage one shows the translation only, at most 3 lines in the environment above. Tap or Enter expands to the purport opening. The entry with the tallest rendered stage two still fits inside the display. | screenshots of both stages for the tallest entry; unit test that tap and Enter both send the expand message | proposed |
-| M1.6 | Arrival and withdrawal are the walk-in and farewell segments of one generated clip of the figure (assets/anim, 12 fps): he enters mid-stride from the right edge of the companion window and stops on the resting spot in at most 2.2 seconds; on withdrawal he raises a palm, turns, and walks out to the right in at most 3.2 seconds. His feet move the true scene distance (no sliding), verified by `test/sprite-player.test.js` placement checks. The window is placed once, on the display that holds the saved position, and does not move while present. He never follows the cursor. During arrival, at most 5 percent of frames exceed 20 ms (Electron performance panel, environment above). | screen recording of one full darshan plus the performance panel capture; `test/sprite-player.test.js` for placement and timing; `src/darshan.js` ARRIVAL_MS 2200 and WITHDRAWAL_MS 3200 are upper bounds on the 2083 ms walk-in and 3167 ms farewell | proposed |
+| M1.6 | Arrival and withdrawal are the walk-in and farewell segments of one generated clip of the figure (assets/anim, 12 fps): he enters mid-stride from the right edge of the companion window and stops on the resting spot in at most 2.2 seconds once the sheets are decoded (they are preloaded when the window opens); on withdrawal he raises a palm, turns, and walks fully out of the canvas to the right in at most 4 seconds. His feet move the true scene distance (no sliding), verified by `test/sprite-player.test.js` placement checks. The window is placed once, on the display that holds the saved position, and does not move while present. He never follows the cursor. During arrival, at most 5 percent of frames exceed 20 ms (Electron performance panel, environment above). | screen recording of one full darshan plus the performance panel capture; `test/sprite-player.test.js` for placement and timing; `src/darshan.js` ARRIVAL_MS 2200 and WITHDRAWAL_MS 4000 are upper bounds on the 2083 ms walk-in and 3833 ms farewell | proposed |
 | M1.7 | Absent between darshans: no companion window is visible (window list shows none), the sprite canvas is cleared and no frame loop runs, and the app's average CPU over a 5-minute Activity Monitor sample is under 1 percent. Reduced motion or a hidden tab shows one eyes-open still frame and runs no loop. | Activity Monitor and window list; `test/sprite-player.test.js` (no frame requests after stop/clear) | proposed |
 | M1.8 | An untouched darshan withdraws on its own after 3 minutes. A darshan the reader has expanded stays until closed. | unit test on the timeout; manual | proposed |
 | M1.9 | Every `held` criterion in the Always table still passes in CI, and every `manual` one is re-run and ticked in the milestone pull request. | CI plus the manual list above | proposed |
@@ -51,11 +51,11 @@ particular, the performance trace (M1.6), CPU sampling
 
 | ID | Branch criterion | Check | Status |
 |----|------------------|-------|--------|
-| UI1 | The figure is a flipbook of frames cut from one generated video of a single Krishna painting (`assets/anim/manifest.js` + four WebP sheets, 3.0 MB): walk-in 12 fps, idle 8 fps ping-pong loop with breathing and blinks, teaching gesture 10 fps on expand, farewell 12 fps. Durations come from the manifest and `src/darshan.js`. Without the manifest the renderer falls back to the single still and the CSS slide. | `test/sprite-player.test.js`, `test/micro-motion.test.js` | held |
+| UI1 | The figure is a flipbook of frames cut from one generated video of a single Krishna painting (`assets/anim/manifest.js` + four WebP sheets, 3.0 MB): walk-in 12 fps, idle 8 fps ping-pong loop with breathing and blinks, teaching gesture 10 fps on expand, farewell 12 fps. Durations come from the manifest and `src/darshan.js`. Without the manifest the renderer falls back to the single still and the CSS slide. | `test/sprite-player.test.js`, `test/renderer-sprite.test.js`, `test/micro-motion.test.js` | held |
 | UI2 | One explicit Next verse action advances exactly one corpus entry, including grouped verses and wrapping 18.78 to 1.1. A specific verse preview never advances or saves progress. | `test/darshan-main.test.js` with Electron doubles | held |
 | UI3 | Every one of the 657 entries reaches the message renderer verbatim. Empty purports create no message. Tap and Enter expand; Escape during arrival cancels the pending reveal. | `test/renderer.test.js` | held |
 | UI4 | Untouched timeout is 180 seconds after arrival. Expanding cancels it, Next replaces it, double dismissal withdraws once, and window recreation cancels old timers. | `test/darshan.test.js`, `test/darshan-main.test.js` | held |
-| UI5 | Motion states: arriving plays walk-in once then idle; present loops idle; opening the purport plays the teaching gesture once then idle; withdrawing plays farewell once then clears. Absent clears the canvas; hidden tab or reduced motion shows one still (idle frame 6, eyes open) with no loop. No cut-out rig, no rotated parts. | `test/sprite-player.test.js` (phase map, timing, player stop), `test/micro-motion.test.js` (renderer wiring) | held |
+| UI5 | Motion states: arriving plays walk-in once then idle; present loops idle; opening the purport plays the teaching gesture once then idle; withdrawing plays farewell once then clears. Absent clears the canvas; hidden tab or reduced motion shows one still (idle frame 6, eyes open) with no loop. No cut-out rig, no rotated parts. | `test/renderer-sprite.test.js` (the renderer drives the player through every phase), `test/sprite-player.test.js` (phase map, timing, player stop) | held |
 
 ## How to use this file
 

diff --git a/docs/DARSHAN-HANDOFF.md b/docs/DARSHAN-HANDOFF.md
@@ -31,14 +31,17 @@ acceptance check has passed; the rows it does and does not claim are listed belo
 
 ## Where the numbers live
 
-`src/darshan.js` is the single source for every darshan timing: `ARRIVAL_MS`,
-`WITHDRAWAL_MS`, `UNTOUCHED_MS`, `BREATH_MS`, `SETTLE_MS`, and `SETTLE_PX`.
-`src/main.js` sends `{ arrivalMs, withdrawalMs, breathMs, settleMs, settlePx }` in
-the `companion:show` payload. `src/renderer.js` writes them to the
+Two files hold the numbers. `assets/anim/manifest.js` holds the segment lengths
+(walk-in 25 frames at 12 fps = 2083 ms, farewell 46 at 12 fps = 3833 ms, idle and
+teach frame counts and rates). `src/darshan.js` holds the bounds and the fallback
+values: `ARRIVAL_MS` 2200 and `WITHDRAWAL_MS` 4000 (upper bounds on the two
+segments, used by the untouched timer and the native hide), `UNTOUCHED_MS`, and the
+`BREATH_MS`, `SETTLE_MS`, `SETTLE_PX` used only by the CSS fallback when no manifest
+is present. `src/main.js` sends `{ arrivalMs, withdrawalMs, breathMs, settleMs,
+settlePx }` in the `companion:show` payload; `src/renderer.js` writes them to the
 `--arrival`, `--withdraw`, `--breath`, `--settle`, and `--settle-px` CSS custom
-properties, and `src/styles.css` reads only those variables for the figure
-animations. The localhost preview serves the same constants so no duration is
-written twice.
+properties, which the fallback animations and the halo/caption fades read. The
+localhost preview serves the same constants.
 
 `src/main.js` owns saved placement, the hidden-window lifecycle, focus gating,
 readiness, verse progression, and native hiding. Opening uses `showInactive()` and
@@ -66,9 +69,9 @@ switch entries, including the long and grouped ones.
 - `docs/evidence/anim-teach.png`: teaching-gesture frame rendered from the sheet.
 - `docs/evidence/anim-farewell.png`: walking out to the right.
 - `docs/evidence/anim-absent.png`: cleared after the farewell.
-- `docs/evidence/darshan-walk.gif`: one full darshan recorded in the localhost preview.
+- A GIF of one full darshan was recorded in the localhost preview and attached to the pull request discussion rather than committed (3 MB of history).
 - Native checks still owed: screen recording on the Electron window, frame trace during the walk-in, 5-minute CPU sample while absent, and a resident-memory number (the four decoded sheets hold roughly 66 MB while the app runs).
-- Known polish, not done: a withdrawal that starts during the walk-in plays the farewell from the resting spot, so the figure jumps there first; a window hidden and shown again mid-farewell restarts the farewell from its first frame.
+- Known polish, not done: a withdrawal that starts during the walk-in plays the farewell from the resting spot, so the figure jumps there first; a window hidden and shown again during a one-shot segment (walk-in, gesture, farewell) restarts that segment from its first frame; a walk-in that exceeds the 2.2 s bound only happens if a sheet had to decode on demand (a load that never completes gives up after 8 s).
 
 ## Which M1 rows are claimed
 
